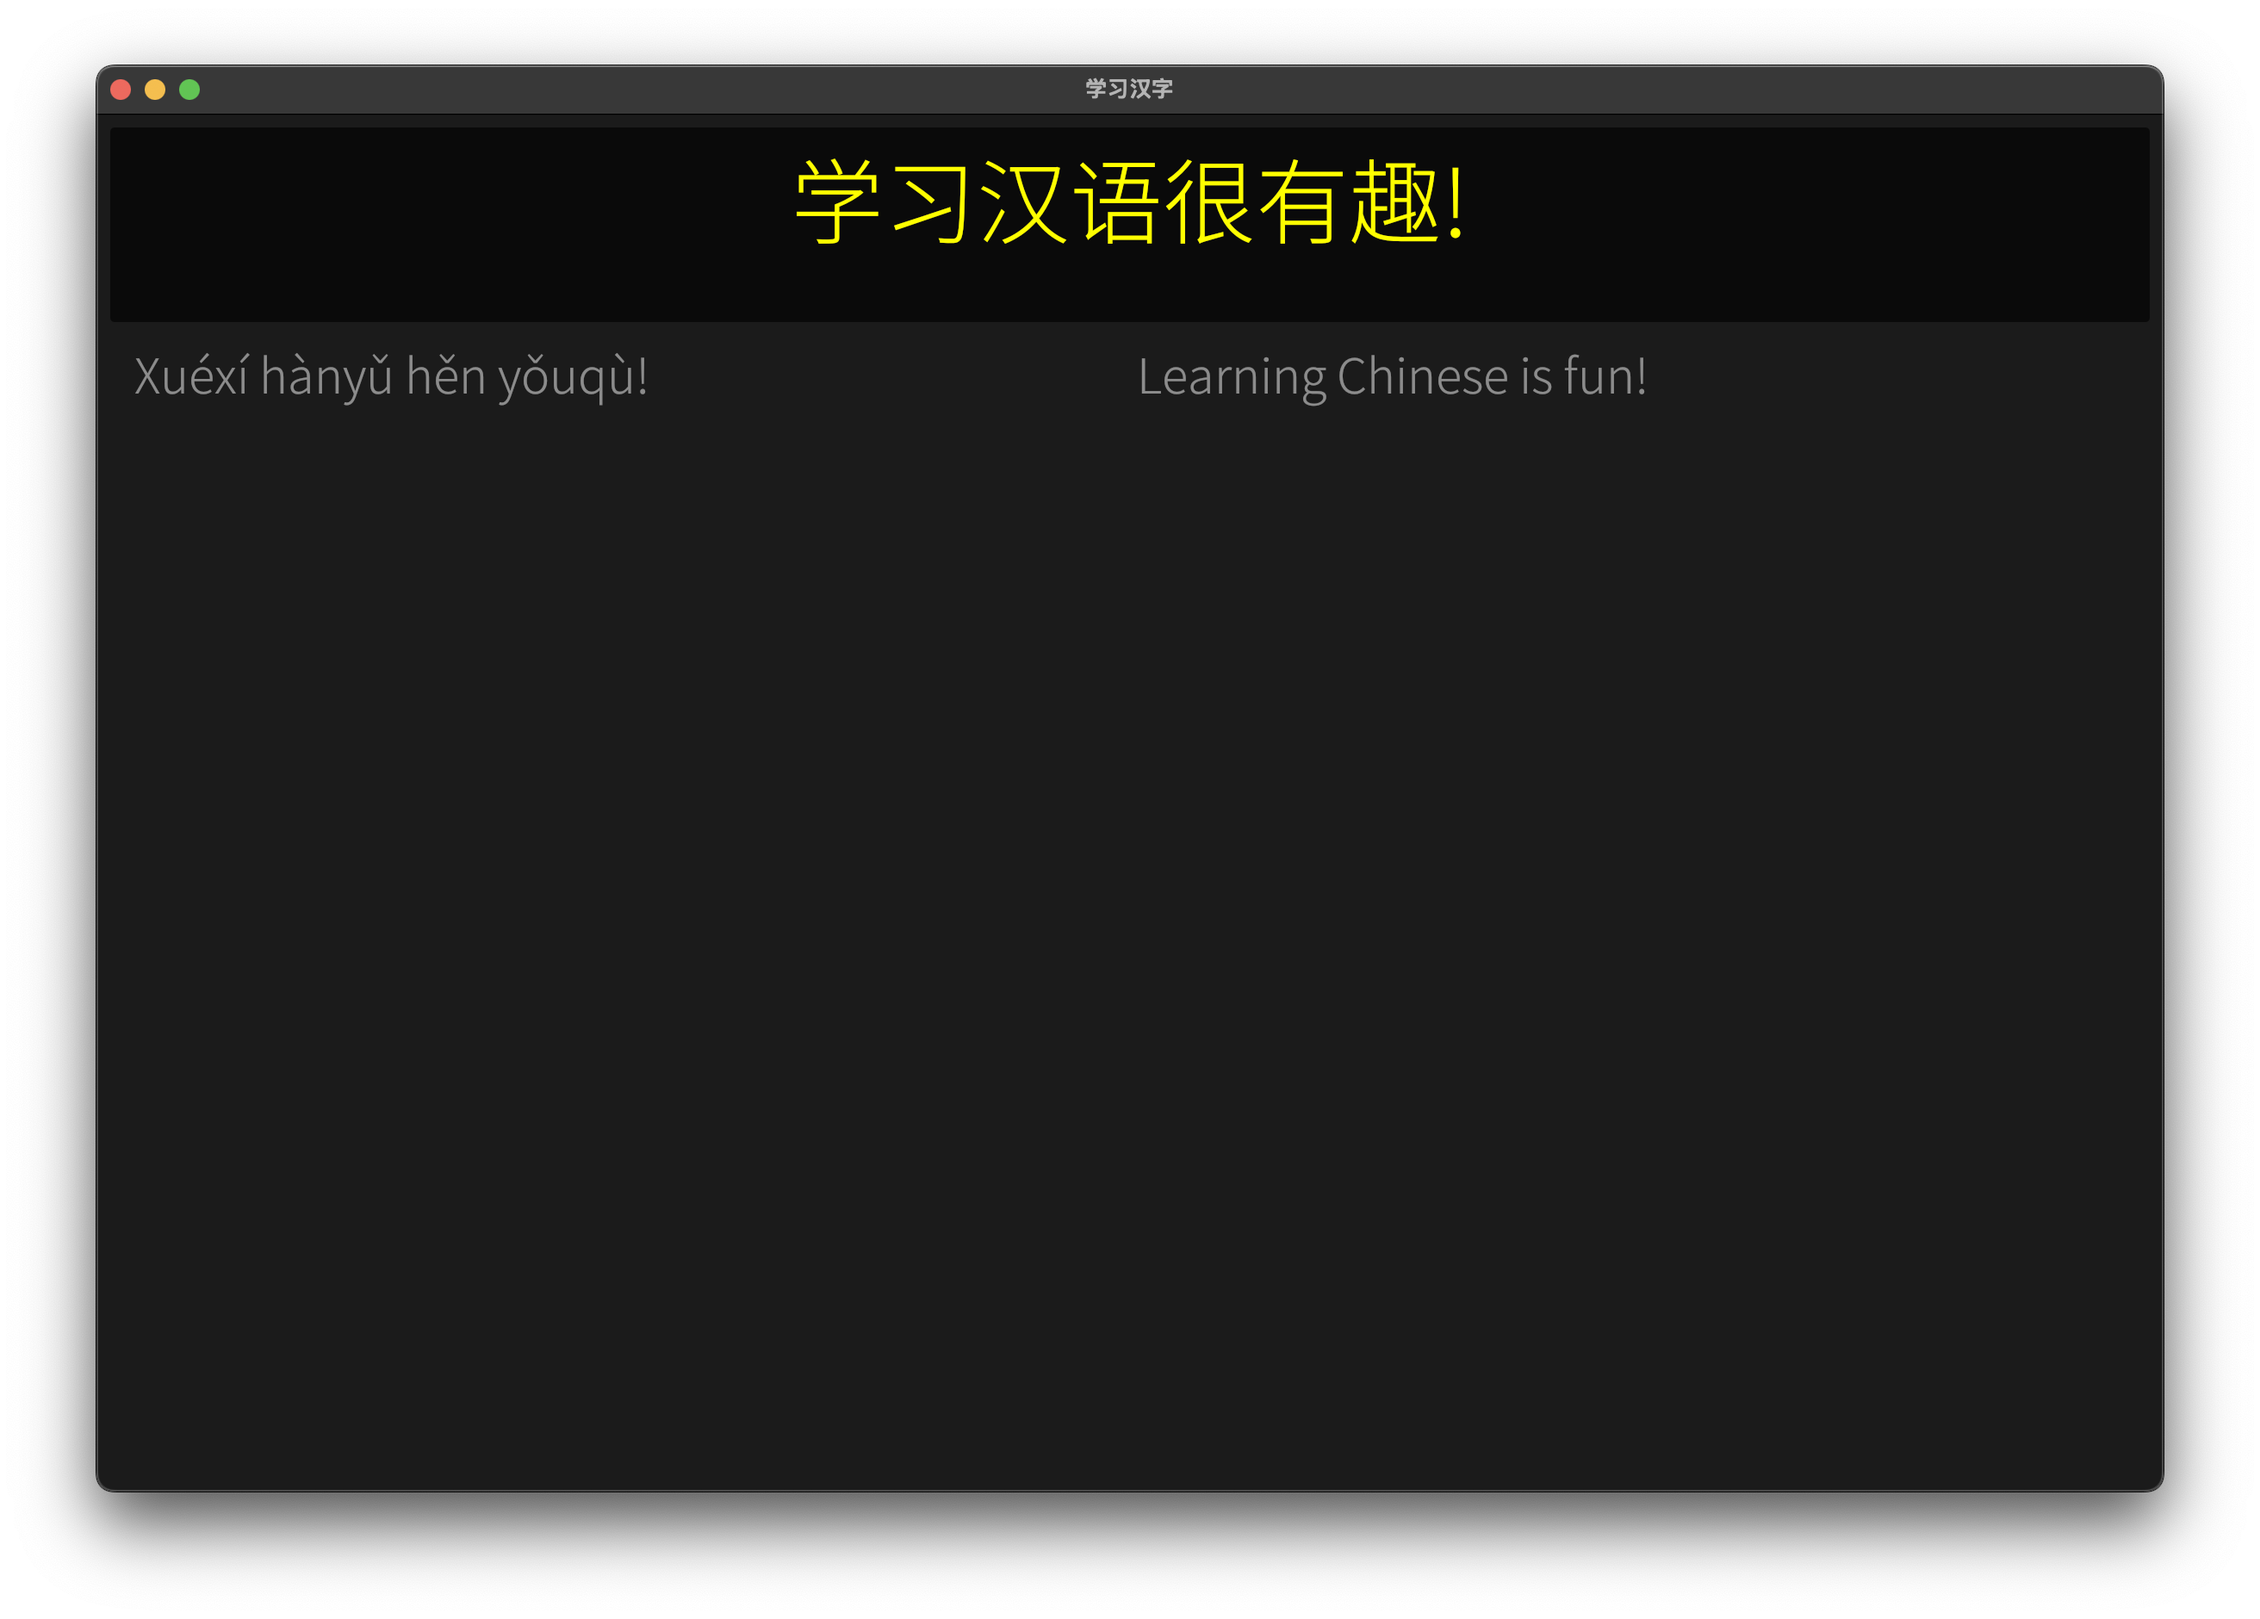
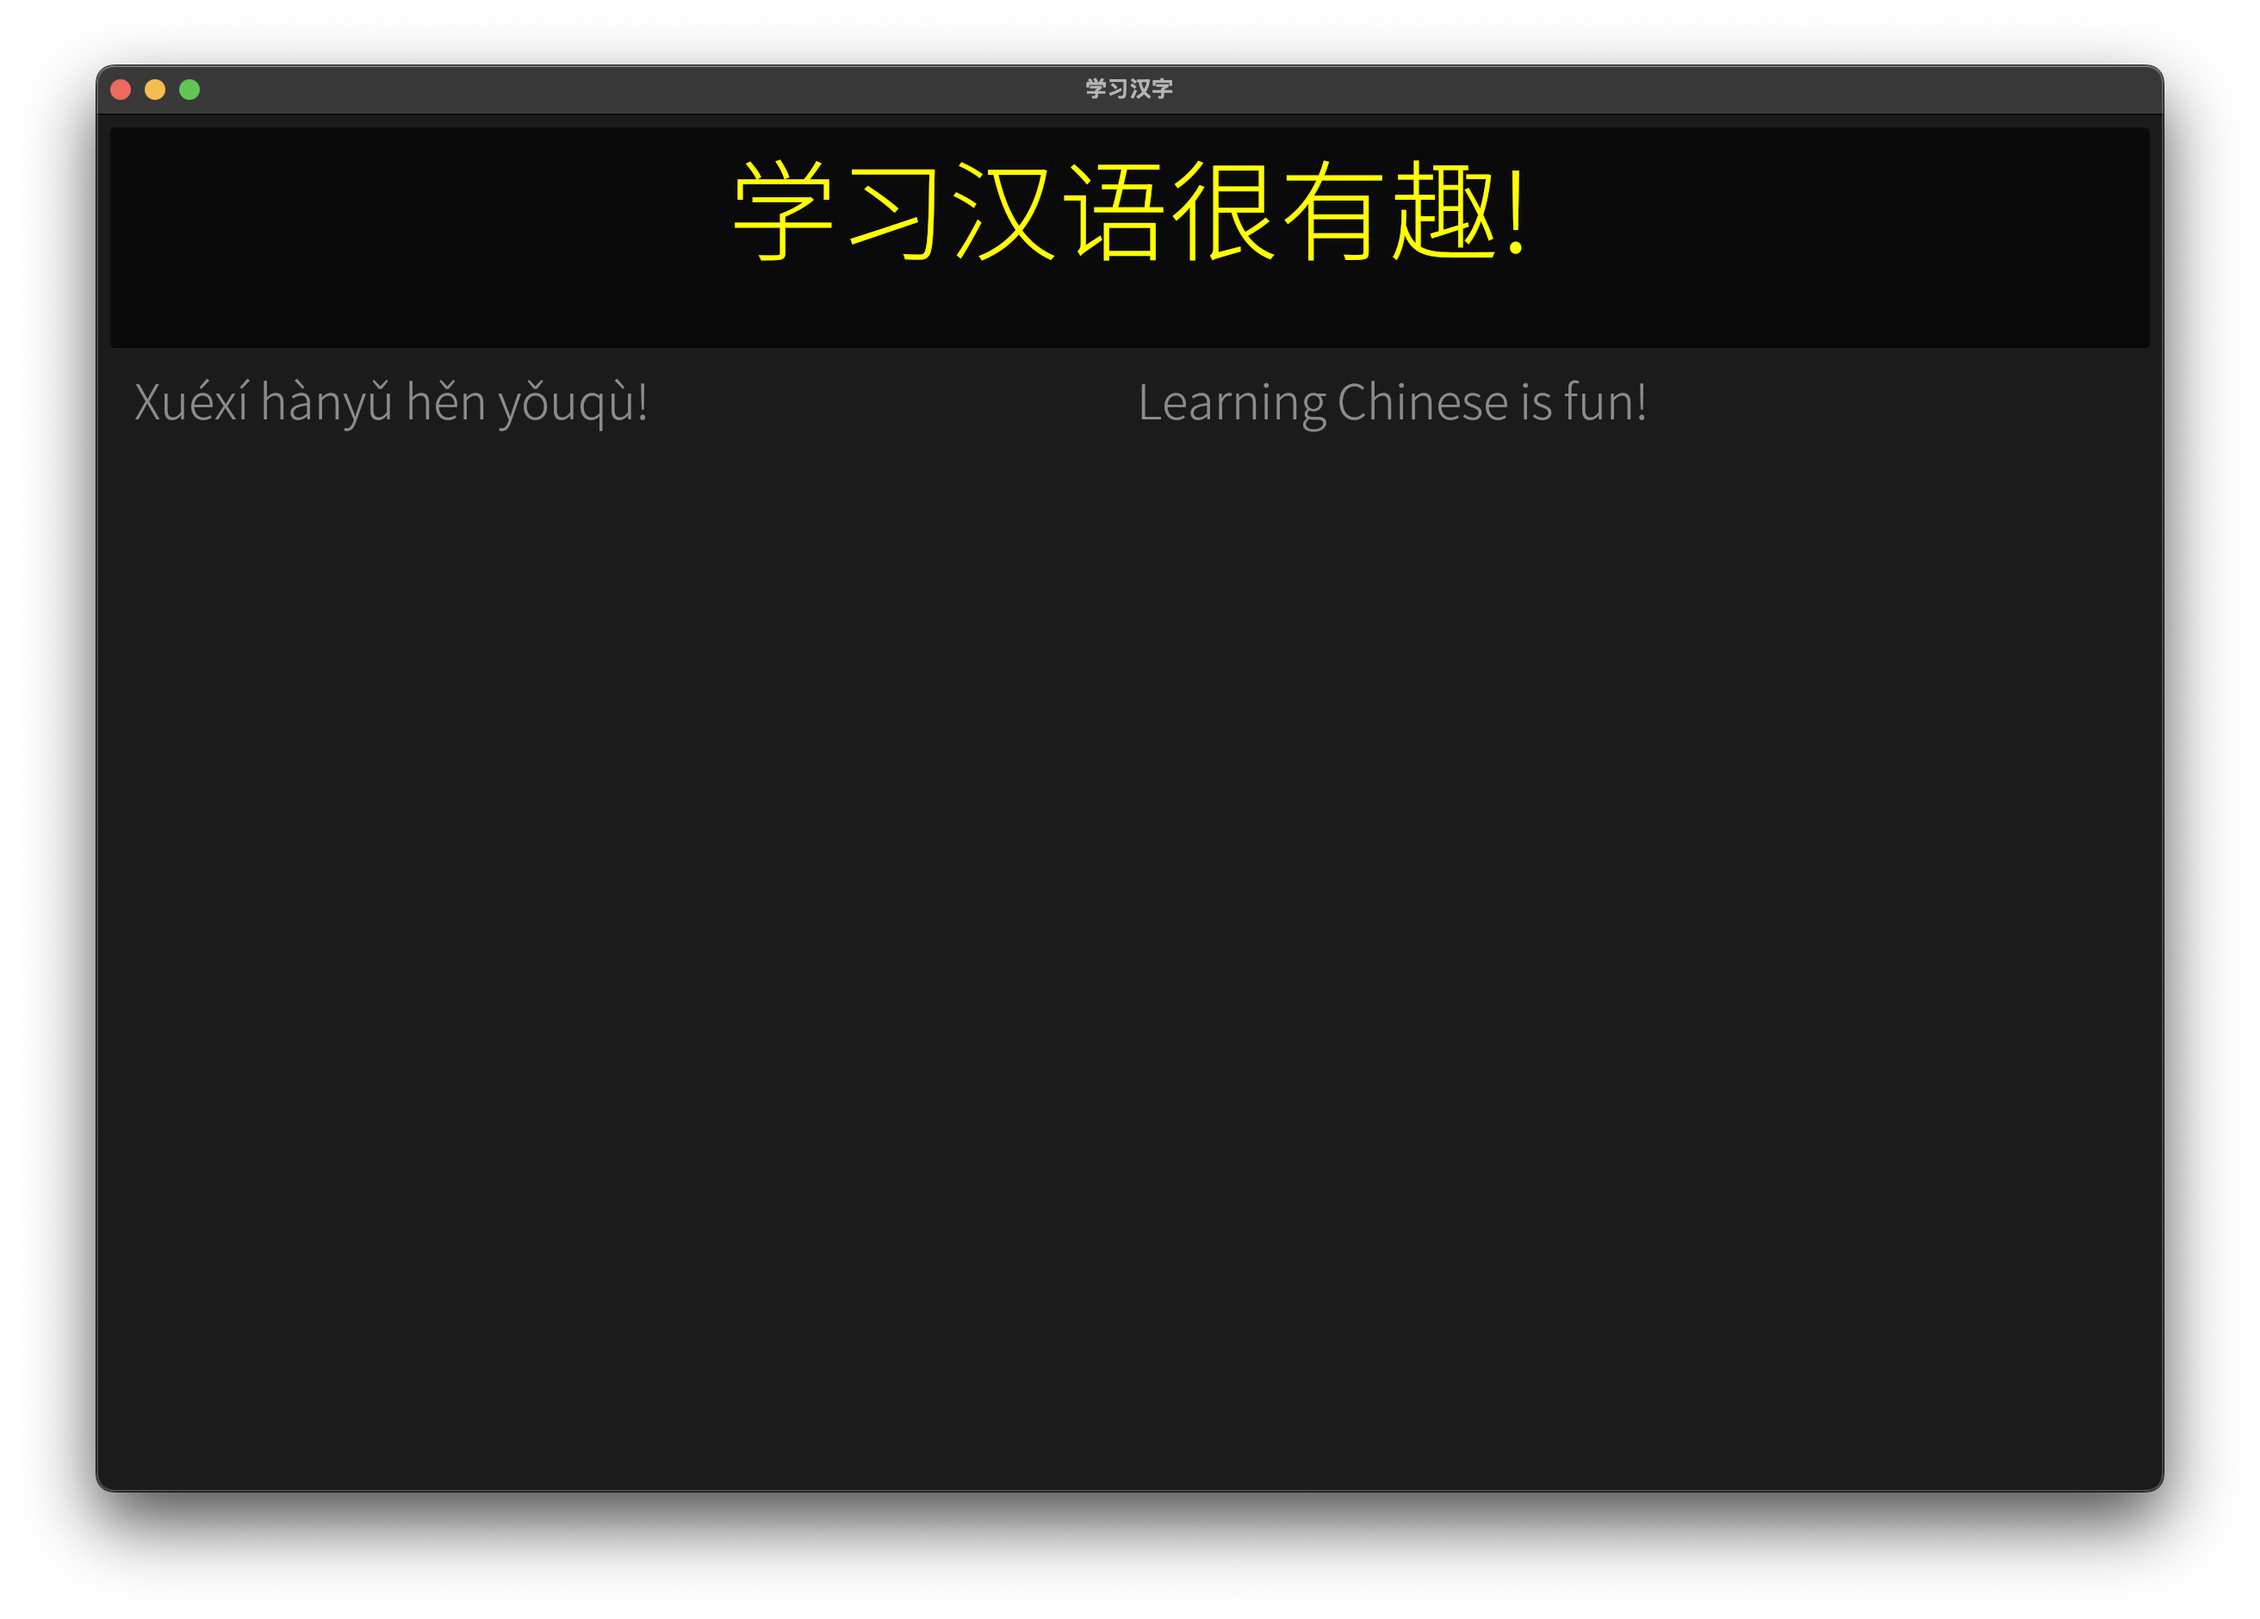
add Cmd+A event handler

Changed region(s): [[0.3125, 0.0926, 0.6875, 0.1851], [0.5, 0.216, 0.7188, 0.2777], [0.0625, 0.216, 0.2812, 0.2777]]

diff --git a/src/app.rs b/src/app.rs
@@ -64,7 +64,7 @@ impl eframe::App for HanziApp {
                             .horizontal_align(egui::Align::Center)
                             .text_color(egui::Color32::YELLOW)
                             .margin(egui::Margin::same(16))
-                            .font(egui::FontId::new(54., egui::FontFamily::Proportional))
+                            .font(egui::FontId::new(64., egui::FontFamily::Proportional))
                             .ui(ui)
                     },
                 );
@@ -93,6 +93,12 @@ impl eframe::App for HanziApp {
         if ctx.input_mut(|i| i.consume_shortcut(&shortcuts::settings(self.is_macos))) {
             self.toasts
                 .info("This is where the settings will open")
+                .duration(Some(Duration::from_secs(5)))
+                .show_progress_bar(true);
+        }
+        if ctx.input_mut(|i| i.consume_shortcut(&shortcuts::about(self.is_macos))) {
+            self.toasts
+                .info("This is where the about dialog will open")
                 .duration(Some(Duration::from_secs(5)))
                 .show_progress_bar(true);
         }

diff --git a/src/shortcuts.rs b/src/shortcuts.rs
@@ -10,6 +10,10 @@ pub(crate) fn settings(is_macos: bool) -> egui::KeyboardShortcut {
     egui::KeyboardShortcut::new(modifiers(is_macos), egui::Key::Comma)
 }
 
+pub(crate) fn about(is_macos: bool) -> egui::KeyboardShortcut {
+    egui::KeyboardShortcut::new(modifiers(is_macos), egui::Key::A)
+}
+
 fn modifiers(is_macos: bool) -> egui::Modifiers {
     if is_macos {
         egui::Modifiers::MAC_CMD
